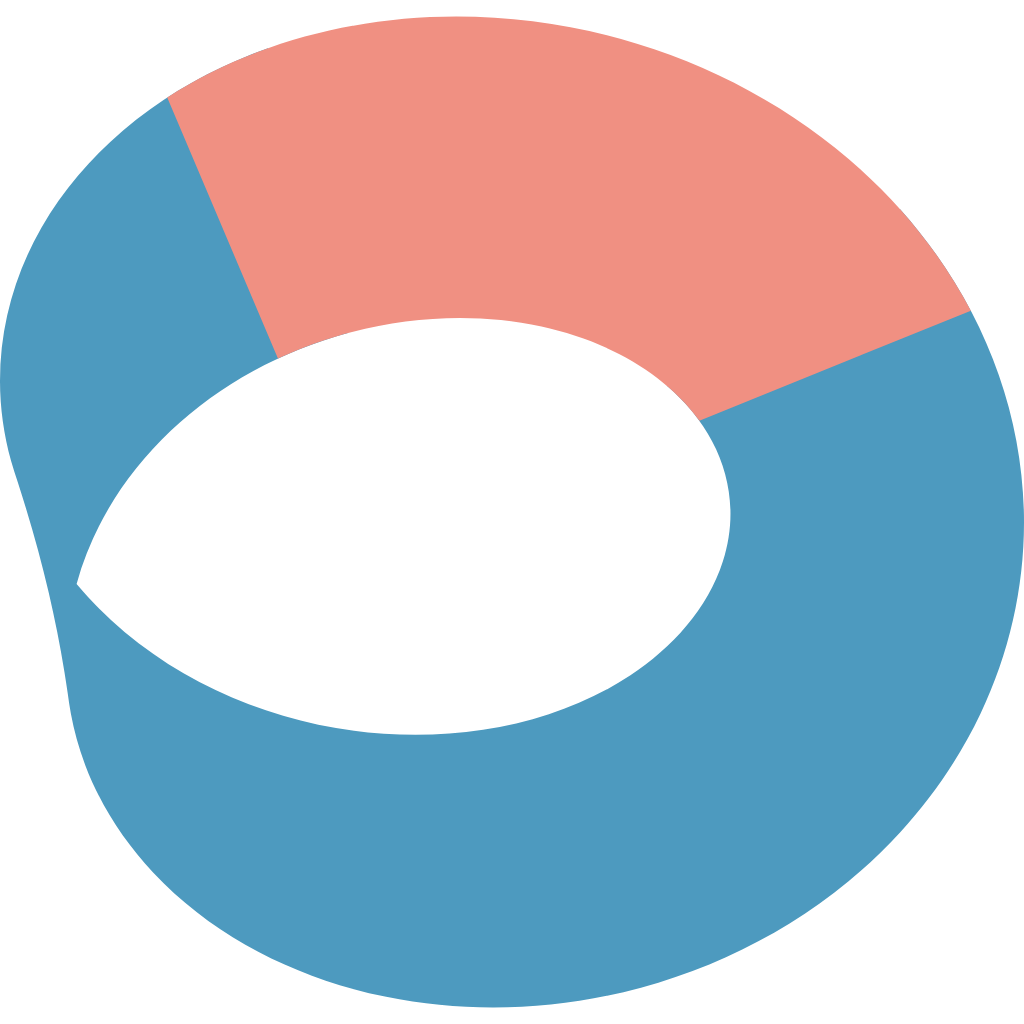
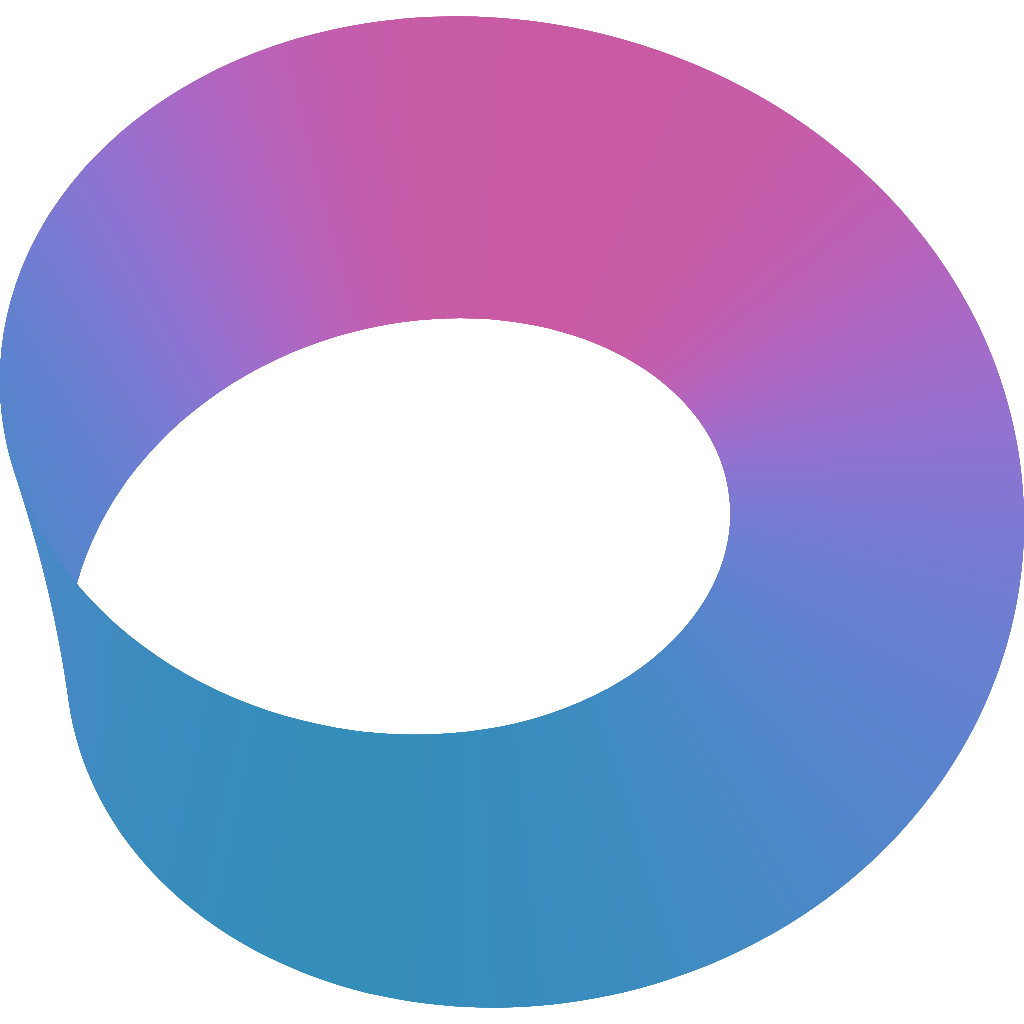
chore(brand): blend the color symbol from azure to fuchsia
Replace the two flat colors of the color symbol with a blend that follows
the strip: azure #358DBA on the near side into fuchsia #C95BA4 on the far
side, mixed in OKLCH so the transition passes through violet.

The strip is painted as thin quads inside clip paths made from the exact
outlines. The quads are drawn in order without anti-aliasing over a wider
base coat, so no joint or background shows, and the part of the strip in
front at the twist is its own layer, so the fold has a clean edge.

The color SVGs, PNGs, PDF and favicon are regenerated. The black, white
and currentColor drawings are unchanged.

diff --git a/assets/brand/symbol/build.py b/assets/brand/symbol/build.py
@@ -3,28 +3,35 @@
 The shape is the orthographic projection of the standard Möbius strip
     x = (1 + v cos(t/2)) cos t,  y = (1 + v cos(t/2)) sin t,  z = v sin(t/2),  |v| <= 0.36
 turned 0.45 rad about z and viewed from 57 degrees.
-A fine mesh of the surface is unioned, then each outline is fitted with a few cubic Beziers whose
+A fine mesh of the surface is unioned, then the outline is fitted with a few cubic Beziers whose
 nodes sit on the corners and on the horizontal and vertical extremes.
+
+The color drawing paints the strip as thin slices along its length, clipped by that outline, so the
+color changes along the strip itself. Azure covers the near side and fuchsia the far side; colors are
+mixed in OKLCH, so the transition passes through violet.
 
 Needs shapely, Google Chrome and ImageMagick:
     python3 -m venv .venv && .venv/bin/pip install shapely && .venv/bin/python build.py
 """
+import itertools
 import math as m
 import subprocess
 from pathlib import Path
 
 import numpy as np
-from shapely.geometry import LineString, Polygon
+from shapely.geometry import LineString, MultiPoint, Polygon
 from shapely.ops import unary_union
 
 OUT = Path(__file__).parent
 CHROME = "/Applications/Google Chrome.app/Contents/MacOS/Google Chrome"
 HALF_WIDTH, SPIN, ELEVATION = 0.36, 0.45, m.radians(57)
-ACCENT_END = 35 * 2 * m.pi / 128  # the accent runs along the strip from t = 0 to this ruling
-LAP = 0.23  # how far the body continues behind each straight edge of the accent
+FAR_SIDE = 35 * m.pi / 128  # the value of t at the middle of the far side, where the fuchsia is purest
 BOX, STEPS, TOLERANCE = 512, 4096, 0.02
-BLUE, CORAL, INK, WHITE = "#4D9ABF", "#F09082", "#252B32", "#FFFFFF"
-COLORINGS = [("color", BLUE, CORAL), ("black", INK, INK), ("white", WHITE, WHITE)]
+AZURE, FUCHSIA, INK, WHITE = "#358DBA", "#C95BA4", "#252B32", "#FFFFFF"
+# Share of the full-loop blend mixed into the soft blend, on the left and right sides of the symbol.
+LOOP_SHARE_LEFT, LOOP_SHARE_RIGHT = 0.54, 0.65
+SLICES, SMALL_SLICES = 360, 120
+COLORINGS = [("color", None), ("black", INK), ("white", WHITE)]
 SMALL_SIZES = (16, 20, 24, 32)
 PNG_SIZES = (16, 20, 24, 32, 48, 64, 128, 256, 512, 1024)
 
@@ -34,6 +41,64 @@ def project(t, v):
     x, y, z = r * m.cos(t), r * m.sin(t), v * m.sin(t / 2)
     x, y = x * m.cos(SPIN) - y * m.sin(SPIN), x * m.sin(SPIN) + y * m.cos(SPIN)
     return x, -(y * m.sin(ELEVATION) + z * m.cos(ELEVATION))
+
+
+def depth(t, v):
+    """Distance toward the viewer of the same point."""
+    r = 1 + v * m.cos(t / 2)
+    y = r * m.cos(t) * m.sin(SPIN) + r * m.sin(t) * m.cos(SPIN)
+    return -y * m.cos(ELEVATION) + v * m.sin(t / 2) * m.sin(ELEVATION)
+
+
+def to_oklch(hex_color):
+    r, g, b = (int(hex_color[i:i + 2], 16) / 255 for i in (1, 3, 5))
+    r, g, b = (c / 12.92 if c <= 0.04045 else ((c + 0.055) / 1.055) ** 2.4 for c in (r, g, b))
+    l = (0.4122214708 * r + 0.5363325363 * g + 0.0514459929 * b) ** (1 / 3)
+    md = (0.2119034982 * r + 0.6806995451 * g + 0.1073969566 * b) ** (1 / 3)
+    s = (0.0883024619 * r + 0.2817188376 * g + 0.6299787005 * b) ** (1 / 3)
+    lightness = 0.2104542553 * l + 0.7936177850 * md - 0.0040720468 * s
+    a = 1.9779984951 * l - 2.4285922050 * md + 0.4505937099 * s
+    bb = 0.0259040371 * l + 0.7827717662 * md - 0.8086757660 * s
+    return lightness, m.hypot(a, bb), m.atan2(bb, a)
+
+
+def from_oklch(lightness, chroma, hue):
+    a, bb = chroma * m.cos(hue), chroma * m.sin(hue)
+    l = (lightness + 0.3963377774 * a + 0.2158037573 * bb) ** 3
+    md = (lightness - 0.1055613458 * a - 0.0638541728 * bb) ** 3
+    s = (lightness - 0.0894841775 * a - 1.2914855480 * bb) ** 3
+    rgb = (4.0767416621 * l - 3.3077115913 * md + 0.2309699292 * s,
+           -1.2684380046 * l + 2.6097574011 * md - 0.3413193965 * s,
+           -0.0041960863 * l - 0.7034186147 * md + 1.7076147010 * s)
+    out = "#"
+    for c in rgb:
+        c = min(1.0, max(0.0, c))
+        out += f"{round((12.92 * c if c <= 0.0031308 else 1.055 * c ** (1 / 2.4) - 0.055) * 255):02X}"
+    return out
+
+
+def mix(a, b, f):
+    """Blend two hex colors in OKLCH along the shorter hue arc."""
+    (l1, c1, h1), (l2, c2, h2) = to_oklch(a), to_oklch(b)
+    dh = (h2 - h1 + m.pi) % (2 * m.pi) - m.pi
+    return from_oklch(l1 + (l2 - l1) * f, c1 + (c2 - c1) * f, h1 + dh * f)
+
+
+def fuchsia_amount(t):
+    """How much fuchsia the strip carries at t, from 0 (azure) to 1.
+
+    Two blends are mixed. The soft blend keeps the fuchsia on the far side and fades it out over about
+    74 degrees of the strip on each side. The full loop is a cosine around the whole strip. The share of
+    full loop is larger on the right side of the symbol than on the left and changes smoothly between.
+    """
+    away = abs(t - FAR_SIDE) % (2 * m.pi)
+    away = min(away, 2 * m.pi - away)
+    f = min(1.0, max(0.0, (away - 0.35 * FAR_SIDE) / (1.5 * FAR_SIDE)))
+    soft = 1 - f * f * (3 - 2 * f)
+    loop = (1 + m.cos(t - FAR_SIDE)) / 2
+    side = m.sin(t - FAR_SIDE)  # +1 on the left of the symbol, -1 on the right
+    share = (LOOP_SHARE_LEFT + LOOP_SHARE_RIGHT) / 2 - (LOOP_SHARE_RIGHT - LOOP_SHARE_LEFT) / 2 * side
+    return soft + share * (loop - soft)
 
 
 def region(t0, t1, steps):
@@ -170,10 +235,7 @@ def path_data(curves):
 
 
 # The strip is meshed slightly past a full turn so its two ends overlap and leave no slit at t = 0.
-strip, accent = region(0, 2 * m.pi + 0.02, STEPS), region(0, ACCENT_END, STEPS // 4)
-# In the two-color drawing the body is cut away under the accent, except for a lap behind each
-# straight edge, so no background shows at the joint and no blue fringes the accent's curved edges.
-body = strip.difference(region(LAP, ACCENT_END - LAP, STEPS // 4))
+strip = region(0, 2 * m.pi + 0.02, STEPS)
 minx, miny, maxx, maxy = strip.bounds
 hx0, hy0, hx1, hy1 = max(strip.convex_hull.difference(strip).geoms, key=lambda g: g.area).bounds
 
@@ -218,25 +280,84 @@ def outline(shape, label, mapping):
     return d
 
 
-def paths(mapping, label):
-    return {k: outline(g, f"{label} {k}", mapping) for k, g in (("strip", strip), ("body", body), ("accent", accent))}
+def edge_on():
+    """The value of t near the twist where the strip is seen exactly edge-on."""
+    def turn(t):
+        (x0, y0), (x1, y1) = project(t - 1e-4, 0), project(t + 1e-4, 0)
+        (ax, ay), (bx, by) = project(t, -HALF_WIDTH), project(t, HALF_WIDTH)
+        return (x1 - x0) * (by - ay) - (y1 - y0) * (bx - ax)
+
+    lo, hi = m.pi - 0.6, m.pi + 0.6
+    assert turn(lo) * turn(hi) < 0
+    for _ in range(60):
+        mid = (lo + hi) / 2
+        lo, hi = (mid, hi) if turn(lo) * turn(mid) > 0 else (lo, mid)
+    return (lo + hi) / 2
 
 
-MASTER = paths(master_map(), "master")
-SMALL = {n: paths(fitted_map(n), f"{n}px") for n in SMALL_SIZES}
+# At the twist the strip folds over itself. The part in front is drawn as its own layer with its own
+# exact outline, so the fold has a clean edge; the rest of the strip lies behind it.
+FOLD, FRONT_SPAN, UNDERLAP = edge_on(), 1.2, 0.1
+if depth(FOLD - 0.35, 0) > depth(FOLD + 0.35, 0):
+    FRONT, BACK = (FOLD - FRONT_SPAN, FOLD), (FOLD, FOLD - FRONT_SPAN + 2 * m.pi + UNDERLAP)
+else:
+    FRONT, BACK = (FOLD, FOLD + FRONT_SPAN), (FOLD + FRONT_SPAN - UNDERLAP, FOLD + 2 * m.pi)
+front = region(*FRONT, STEPS // 4)
 
 
-def symbol(body_color, accent_color, size=BOX, d=MASTER, standalone=True):
-    two = accent_color != body_color
-    accent_path = f'<path fill="{accent_color}" d="{d["accent"]}"/>' if two else ""
-    head = '<title>Scient</title>' if standalone else ""
-    return (f'<svg xmlns="http://www.w3.org/2000/svg" width="{size}" height="{size}" viewBox="0 0 {BOX} {BOX}">{head}'
-            f'<path fill="{body_color}" d="{d["body"] if two else d["strip"]}"/>{accent_path}</svg>')
+def quads(mapping, t0, t1, count, lap, grow=0.0):
+    """The strip between t0 and t1 as colored quads in order of t, `count` to a full turn. Each quad
+    covers `lap` pitches and is painted over by the next, so each shows for exactly one pitch. None
+    passes t1, where the fold is. `grow` widens every quad on screen by that many units."""
+    dt, v, out = 2 * m.pi / count, HALF_WIDTH + 0.02, ""
+    for i in range(m.ceil((t1 - t0) / dt)):
+        a = t0 + i * dt
+        b = min(a + lap * dt, t1)
+        pts = [mapping(*project(t, w)) for t, w in ((a, -v), (b, -v), (b, v), (a, v))]
+        if grow:
+            pts = list(MultiPoint(pts).convex_hull.buffer(grow, join_style=2).exterior.coords)[:-1]
+        color = mix(AZURE, FUCHSIA, fuchsia_amount((a + min(a + dt, t1)) / 2))
+        out += '<path fill="{}" d="M{}Z"/>'.format(color, " ".join(f"{x:.1f} {y:.1f}" for x, y in pts))
+    return out
 
 
-def best(body_color, accent_color, size):
+def layer(mapping, span, count, grow):
+    """Two coats, both drawn without anti-aliasing: overlapping anti-aliased quads would let a little of
+    whatever lies beneath show at every joint. The base coat is wider quads grown past the clip path,
+    so every pixel the clip path touches is painted. The top coat is the fine quads that give the
+    smooth blend. The clip paths alone anti-alias the edges."""
+    return quads(mapping, *span, 120, 3, grow) + quads(mapping, *span, count, 1.9)
+
+
+def drawing(mapping, label, slice_count, grow):
+    return {"strip": outline(strip, label, mapping), "front": outline(front, f"{label} front layer", mapping),
+            "back_layer": layer(mapping, BACK, slice_count, grow), "front_layer": layer(mapping, FRONT, slice_count, grow)}
+
+
+# The base coat must reach at least a pixel past the outline at the smallest size a drawing is used at.
+MASTER = drawing(master_map(), "master", SLICES, BOX / 48 * 1.25)
+SMALL = {n: drawing(fitted_map(n), f"{n}px", SMALL_SLICES, BOX / n * 1.25) for n in SMALL_SIZES}
+clip_ids = itertools.count()
+
+
+def symbol(fill, size=BOX, d=MASTER, standalone=True):
+    """One SVG. `fill` is a color for the one-color drawings and None for the azure-to-fuchsia drawing.
+    Inline copies get their own clip ids, because each size has its own outline."""
+    head = "<title>Scient</title>" if standalone else ""
+    if fill is None:
+        clip = "scient" if standalone else f"scient{next(clip_ids)}"
+        body = (f'<clipPath id="{clip}-strip"><path d="{d["strip"]}"/></clipPath>'
+                f'<clipPath id="{clip}-front"><path d="{d["front"]}"/></clipPath>'
+                f'<g clip-path="url(#{clip}-strip)"><g shape-rendering="crispEdges">{d["back_layer"]}</g></g>'
+                f'<g clip-path="url(#{clip}-front)"><g shape-rendering="crispEdges">{d["front_layer"]}</g></g>')
+    else:
+        body = f'<path fill="{fill}" d="{d["strip"]}"/>'
+    return f'<svg xmlns="http://www.w3.org/2000/svg" width="{size}" height="{size}" viewBox="0 0 {BOX} {BOX}">{head}{body}</svg>'
+
+
+def best(fill, size):
     """The pixel-fitted drawing where one exists, the exact master otherwise."""
-    return symbol(body_color, accent_color, size, SMALL.get(size, MASTER), standalone=False)
+    return symbol(fill, size, SMALL.get(size, MASTER), standalone=False)
 
 
 def chrome(*args):
@@ -247,16 +368,16 @@ def chrome(*args):
 for folder in ("small", "png", "pdf"):
     (OUT / folder).mkdir(exist_ok=True)
 tmp = OUT / ".tmp.html"
-for slug, body_color, acc in COLORINGS + [("mono", "currentColor", "currentColor")]:
-    (OUT / f"scient-symbol-{slug}.svg").write_text(symbol(body_color, acc) + "\n")
+for slug, fill in COLORINGS + [("mono", "currentColor")]:
+    (OUT / f"scient-symbol-{slug}.svg").write_text(symbol(fill) + "\n")
     for n in SMALL_SIZES:
-        (OUT / "small" / f"scient-symbol-{slug}-{n}.svg").write_text(symbol(body_color, acc, n, SMALL[n]) + "\n")
+        (OUT / "small" / f"scient-symbol-{slug}-{n}.svg").write_text(symbol(fill, n, SMALL[n]) + "\n")
     if slug == "mono":
         continue
     # PNGs: one transparent sprite at 1x, then cropped, so every size is rendered by the same engine.
     x, cells, boxes = 0, "", []
     for n in PNG_SIZES:
-        cells += f'<div style="position:absolute;left:{x}px;top:0">{best(body_color, acc, n)}</div>'
+        cells += f'<div style="position:absolute;left:{x}px;top:0">{best(fill, n)}</div>'
         boxes.append((n, x))
         x += n + 8
     tmp.write_text(f'<body style="margin:0;background:transparent">{cells}</body>')
@@ -267,7 +388,7 @@ for slug, body_color, acc in COLORINGS + [("mono", "currentColor", "currentColor
         subprocess.run(["magick", str(sprite), "-crop", f"{n}x{n}+{left}+0", "+repage", "-strip",
                         str(OUT / "png" / f"scient-symbol-{slug}-{n}.png")], check=True)
     sprite.unlink()
-    tmp.write_text(f'<style>@page{{size:{BOX}px {BOX}px;margin:0}}body{{margin:0}}svg{{display:block}}</style>{symbol(body_color, acc)}')
+    tmp.write_text(f'<style>@page{{size:{BOX}px {BOX}px;margin:0}}body{{margin:0}}svg{{display:block}}</style>{symbol(fill)}')
     chrome("--no-pdf-header-footer", f"--print-to-pdf={OUT / 'pdf' / f'scient-symbol-{slug}.pdf'}", f"file://{tmp}")
 tmp.unlink()
 subprocess.run(["magick", *[str(OUT / "png" / f"scient-symbol-color-{n}.png") for n in (16, 32, 48)], str(OUT / "favicon.ico")], check=True)
@@ -283,14 +404,13 @@ h2{font-size:13px;margin:0 0 18px;text-transform:uppercase;letter-spacing:.06em;
 .dark .picker{border-color:#343b48}svg{display:block}.big{display:flex;justify-content:center}"""
 
 
-def card(title, body_color, acc, dark):
-    sizes = "".join(f"<div>{best(body_color, acc, n)}<span>{n}</span></div>" for n in (96, 64, 48, 32, 24, 20, 16))
-    return (f'<div class="card{" dark" if dark else ""}"><h2>{title}</h2><div class="big">{best(body_color, acc, 220)}</div>'
-            f'<div class="sizes">{sizes}</div><div class="picker">{best(body_color, acc, 16)}<span>Scient Agent</span></div></div>')
+def card(title, fill, dark):
+    sizes = "".join(f"<div>{best(fill, n)}<span>{n}</span></div>" for n in (96, 64, 48, 32, 24, 20, 16))
+    return (f'<div class="card{" dark" if dark else ""}"><h2>{title}</h2><div class="big">{best(fill, 220)}</div>'
+            f'<div class="sizes">{sizes}</div><div class="picker">{best(fill, 16)}<span>Scient Agent</span></div></div>')
 
 
-cards = (card("Color · on light", BLUE, CORAL, False) + card("Color · on dark", BLUE, CORAL, True)
-         + card("Black", INK, INK, False) + card("White", WHITE, WHITE, True))
+cards = card("Color · on light", None, False) + card("Color · on dark", None, True) + card("Black", INK, False) + card("White", WHITE, True)
 (OUT / "preview.html").write_text(
     '<!doctype html><html lang="en"><meta charset="utf-8"><title>Scient symbol</title>'
     f"<style>{CSS}</style><main><header><h1>Scient symbol</h1>"

diff --git a/assets/brand/symbol/README.md b/assets/brand/symbol/README.md
@@ -9,11 +9,11 @@ The three reference symbols are `scient-symbol-color.svg`, `scient-symbol-black.
 
 ## Colors
 
-| Coloring | Values                          | Use                                   |
-| -------- | ------------------------------- | ------------------------------------- |
-| Color    | Blue `#4D9ABF`, coral `#F09082` | Light and dark backgrounds            |
-| Black    | Ink `#252B32`                   | Light backgrounds, one-color printing |
-| White    | `#FFFFFF`                       | Dark backgrounds and photographs      |
+| Coloring | Values                                          | Use                                   |
+| -------- | ----------------------------------------------- | ------------------------------------- |
+| Color    | Azure `#358DBA` blending into fuchsia `#C95BA4` | Light and dark backgrounds            |
+| Black    | Ink `#252B32`                                   | Light backgrounds, one-color printing |
+| White    | `#FFFFFF`                                       | Dark backgrounds and photographs      |
 
 ## Files
 
@@ -41,14 +41,30 @@ turned 0.45 rad about the z axis and viewed from 57°.
 `build.py` unions a 4096-step mesh of the surface and fits each outline with cubic Béziers by
 least squares. Nodes sit on the corners and on the horizontal and vertical extremes.
 
-- The silhouette is 31 segments and stays within 0.02 units of the 512-unit box (0.004%) of the mesh.
-- The two straight edges of the coral region are rulings of the surface, at t = 0 and t = 35·2π/128.
-- In the color drawing the blue path is cut away under the coral, with a lap behind each straight
-  edge, so no background shows at the joint and no blue fringes the coral at small sizes.
-  That path stays within 0.21 units (0.04%).
+The silhouette is 31 segments and stays within 0.02 units of the 512-unit box (0.004%) of the mesh.
 
-The coral region is a design choice. A Möbius strip has one side, so the two colors do not mean
-two sides.
+## Color blend
+
+In the color drawing the color changes along the strip itself. The near side is azure, the far side
+is fuchsia, and the two are mixed in OKLCH, so the transition passes through violet and not grey.
+
+The amount of fuchsia at each point is a mix of two blends: a soft blend that keeps the fuchsia on
+the far side, and a full loop in which the color travels once around the whole strip. The share of
+the full loop is 54% on the left side of the symbol and 65% on the right, changing smoothly between.
+
+SVG has no gradient that follows a curve, so the strip is painted as thin quads along its length,
+360 to a turn in the master and 120 in the small drawings, inside clip paths made from the exact
+outlines:
+
+- The quads are painted in order and without anti-aliasing. Each shows for one pitch, so the result
+  is an even staircase of colors about one 8-bit level apart, with no joints showing.
+- A base coat of wider quads reaches past the outline, so every edge pixel is fully painted.
+- At the twist the strip folds over itself. The part in front is a separate layer with its own
+  outline, so the fold has a clean edge.
+- The clip paths alone anti-alias the edges, exactly as in the one-color drawings.
+
+The blend is a design choice. A Möbius strip has one side, so the two colors do not mean two sides.
+The black, white and `currentColor` drawings are single flat colors.
 
 ## Small sizes
 
